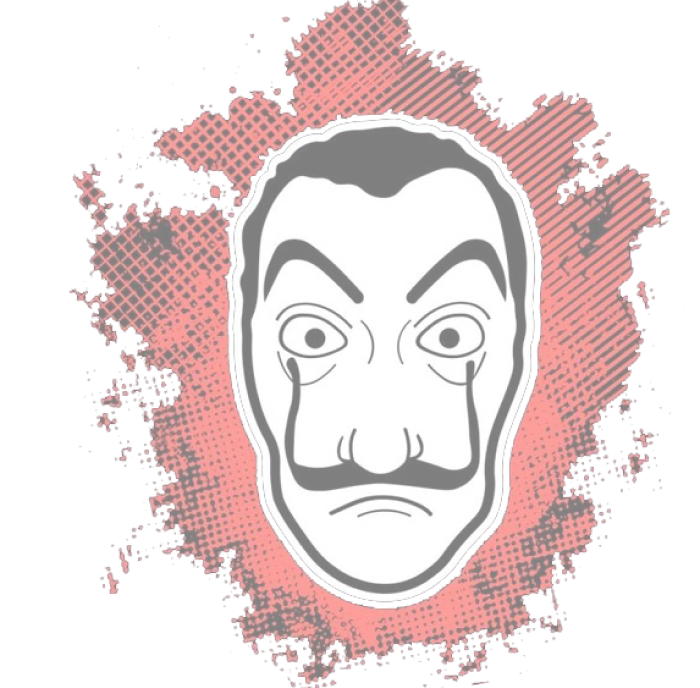
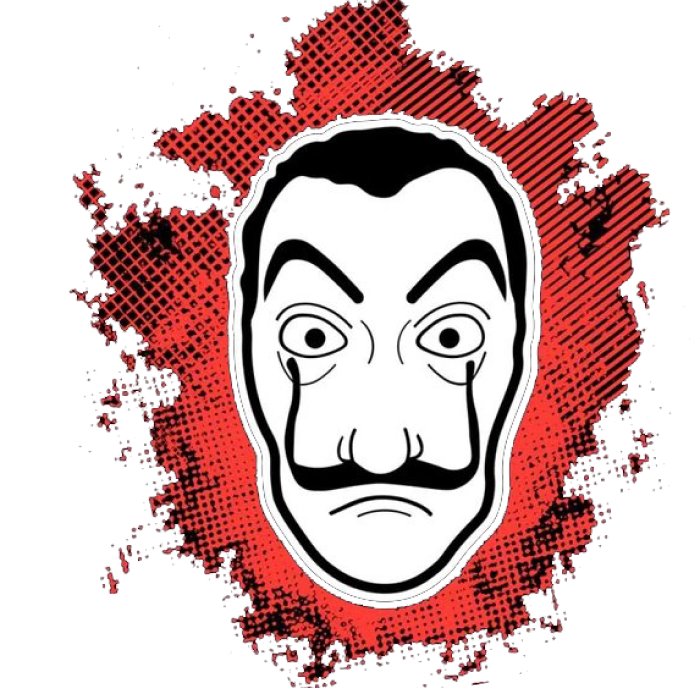
Red and heading size fixed

diff --git a/src/Components/Schedule/schedule.css b/src/Components/Schedule/schedule.css
@@ -129,7 +129,7 @@
 
 .mh_tx > div.red {
   border-radius: 2px;
-  background-color: #e60909;
+  background-color: var(--x-red);
   color: #000;
   padding: 0px 5px;
 }
@@ -167,11 +167,12 @@
 }
 
 .s_parent .s_me .s_big_child .s_name {
-  border-bottom: 5px solid #e60909;
+  border-bottom: 5px solid var(--x-red);
   font-family: PurplePurse;
   font-style: normal;
   font-weight: bolder;
-  font-size: 3.2em;
+  font-size: var(--x-heading-size);
+  text-transform: uppercase;
   line-height: 90px;
   color: #ffffff;
   text-shadow: 0.4rem 1rem 0.1rem rgba(0, 0, 0, 0.25);
@@ -200,12 +201,12 @@
   width: 80%;
   max-width: 300px;
   border-radius: 5px;
-  border: 1px solid #e60909;
+  border: 1px solid var(--x-red);
   -webkit-box-shadow: 5px 5px 10px #00000073, 0 30px 20px -10px #00000021;
   box-shadow: 5px 5px 10px #00000073, 0 30px 20px -10px #00000021;
   cursor: default;
-  -webkit-transition: 0.5s;
-  transition: 0.5s;
+  -webkit-transition: 0.8s;
+  transition: 0.8s;
 }
 
 .s_parent .s_me .s_child .planx:hover {
@@ -307,7 +308,7 @@
   }
 
   .s_parent .s_me .s_big_child .s_name {
-    border-bottom: 5px solid #e60909;
+    border-bottom: 5px solid var(--x-red);
     font-family: PurplePurse;
     font-style: normal;
     font-weight: bolder;

diff --git a/src/Components/FAQ/faq.css b/src/Components/FAQ/faq.css
@@ -72,11 +72,11 @@
 }
 
 .faq_parent ::-webkit-scrollbar-thumb {
-  background: #e60909;
+  background: var(--x-red);
 }
 
 .faq_parent ::-webkit-scrollbar-thumb:hover {
-  background: #e60909;
+  background: var(--x-red);
 }
 
 .faq_parent .faq_bg_circle {
@@ -124,11 +124,11 @@
 
 .faq_parent .faq_me .faq_heading {
   margin: 3% 0;
-  border-bottom: 5px solid #e60909;
+  border-bottom: 5px solid var(--x-red);
   font-family: PurplePurse;
   font-style: normal;
   font-weight: bolder;
-  font-size: 3.2em;
+  font-size: var(--x-heading-size);
   line-height: 90px;
   color: #ffffff;
   text-shadow: 0.4rem 1rem 0.1rem rgba(0, 0, 0, 0.25);
@@ -166,7 +166,7 @@
 .faq_parent .faq_me .faq_container .faq_qns .faq_q {
   width: 100%;
   font-family: sans-serif;
-  border: 1px solid #e60909;
+  border: 1px solid var(--x-red);
   background-color: #000;
   border-radius: 10px;
   padding: 15px;

diff --git a/src/Components/About/About.css b/src/Components/About/About.css
@@ -34,11 +34,11 @@
   float: left;
 }
 .headingAbout {
-  border-bottom: 5px solid #e60909;
+  border-bottom: 5px solid var(--x-red);
   font-family: PurplePurse;
   font-style: normal;
   font-weight: bolder;
-  font-size: 3.2em;
+  font-size: var(--x-heading-size);
   line-height: 90px;
   color: #ffffff;
   max-width: max-content;
@@ -81,7 +81,7 @@
   }
 
   .headingAbout {
-    border-bottom: 5px solid #e60909;
+    border-bottom: 5px solid var(--x-red);
     font-family: PurplePurse;
     font-style: normal;
     font-weight: bolder;
@@ -126,7 +126,7 @@
   }
 
   .headingAbout {
-    border-bottom: 5px solid #e60909;
+    border-bottom: 5px solid var(--x-red);
     font-family: PurplePurse;
     font-style: normal;
     font-weight: bolder;

diff --git a/src/Components/Tracks/track.css b/src/Components/Tracks/track.css
@@ -1,6 +1,3 @@
-:root {
-  --x-size: 50vw;
-}
 .building {
   width: 100%;
 }
@@ -73,12 +70,13 @@
   margin: auto;
 }
 
-.Trackx .Tracks {
-  border-bottom: 5px solid #e60909;
+.Trackx .Tracks > p  {
+  border-bottom: 5px solid var(--x-red);
   font-family: PurplePurse;
   font-style: normal;
   font-weight: bolder;
-  font-size: 3.2em;
+  font-size: var(--x-heading-size);
+  text-transform: uppercase;
   color: #ffffff;
   text-shadow: 0.4rem 1rem 0.1rem rgba(0, 0, 0, 0.25);
   width: max-content;

diff --git a/src/Components/Prizes/Prizes.css b/src/Components/Prizes/Prizes.css
@@ -6,11 +6,12 @@
 }
 
 .Prizes .h_name {
-  border-bottom: 5px solid #e60909;
+  border-bottom: 5px solid var(--x-red);
   font-family: PurplePurse;
   font-style: normal;
   font-weight: bolder;
-  font-size: 3.2em;
+  font-size: var(--x-heading-size);
+  text-transform: uppercase;
   line-height: 90px;
   color: #ffffff;
   text-shadow: 0.4rem 1rem 0.1rem rgba(0, 0, 0, 0.25);

diff --git a/src/index.css b/src/index.css
@@ -1,3 +1,12 @@
+:root {
+  --x-red: #e60909;
+  --x-heading-size: 3.2em;
+}
+@media (max-width: 1024px) {
+  :root{
+    --x-heading-size: 2.3em;
+  }
+}
 body {
   margin: 0;
   font-family: -apple-system, BlinkMacSystemFont, "Segoe UI", "Roboto", "Oxygen",

diff --git a/src/Components/Home/Home.css b/src/Components/Home/Home.css
@@ -12,7 +12,7 @@
   background-size: cover;
   background-repeat: no-repeat;
   font-family: Poppins, sans-serif;
-  background-color: #2a3034;
+  background-color: var(--x-red);
 }
 
 .home .home__content {
